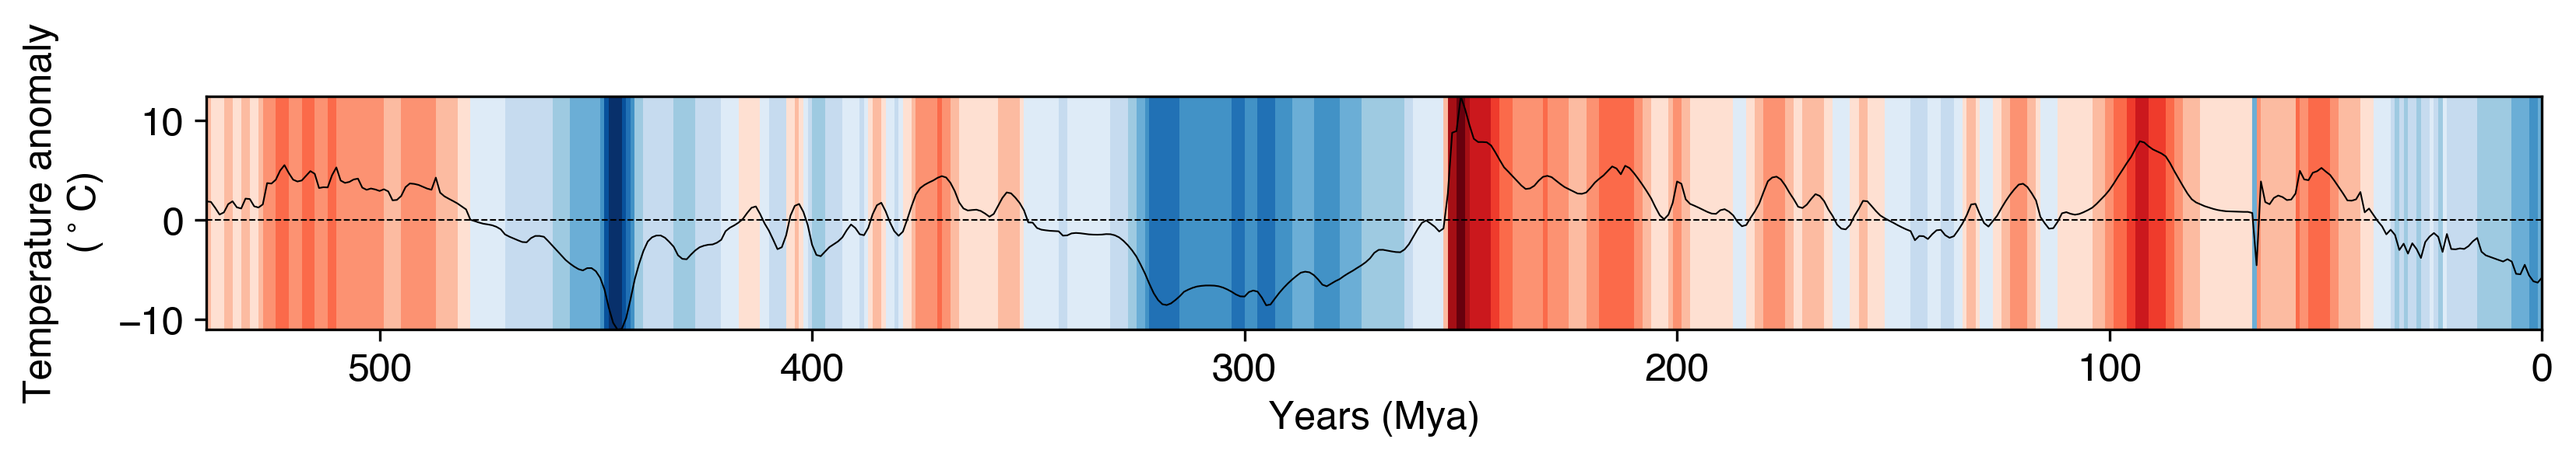
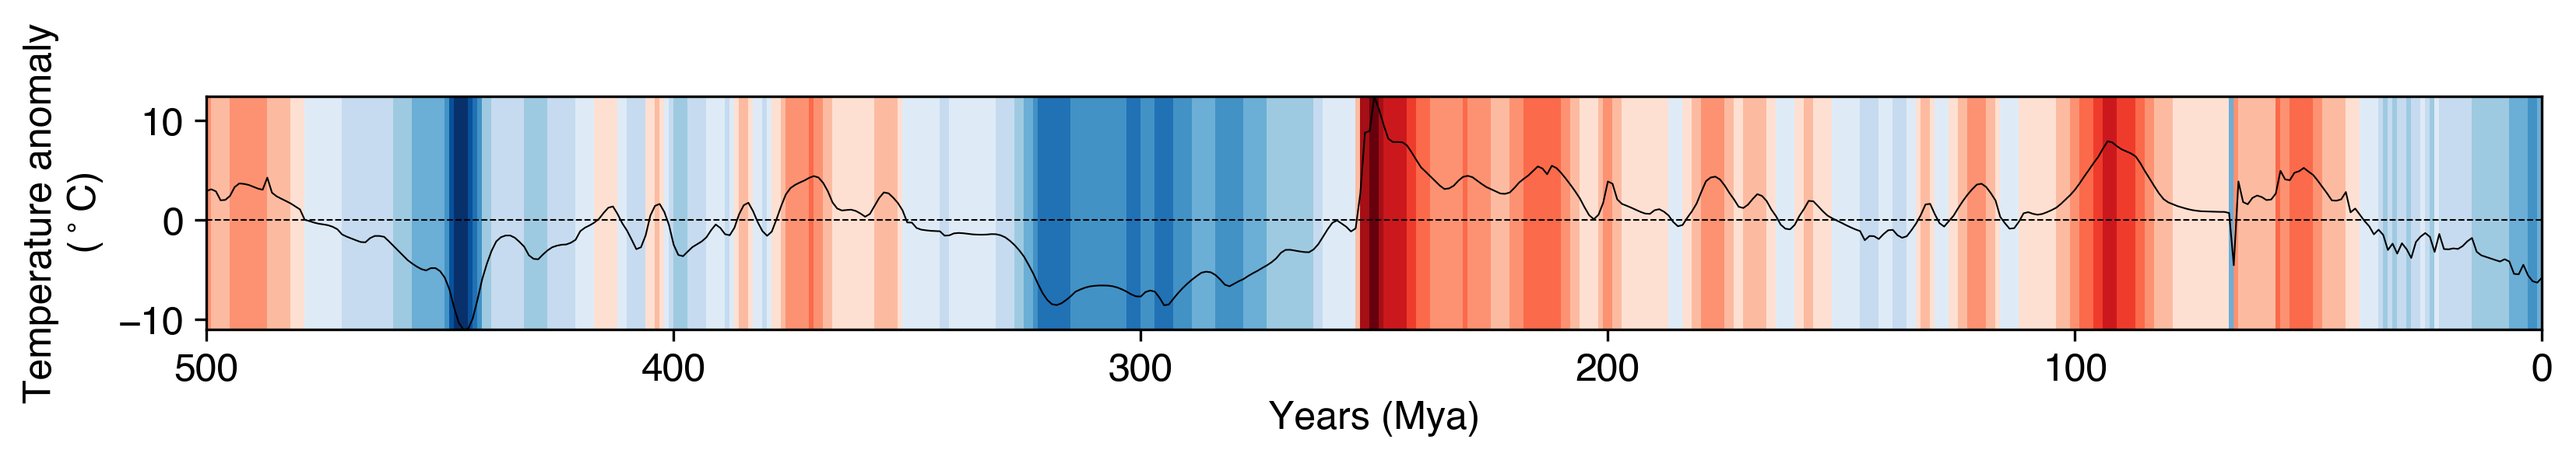
Changed x range

diff --git a/plotMe.py b/plotMe.py
@@ -90,7 +90,7 @@ col.set_clim(-rect_height/2, rect_height/2) # set the limits of our colormap
 
 
 ax.add_collection(col)
-ax.set_xlim(540, 0)
+ax.set_xlim(500, 0)
 
 ax.plot(df['anomaly'], linestyle='-', lw=0.5, color='k')
 ax.axhline(0, linestyle='--', color='k', lw=0.5)
